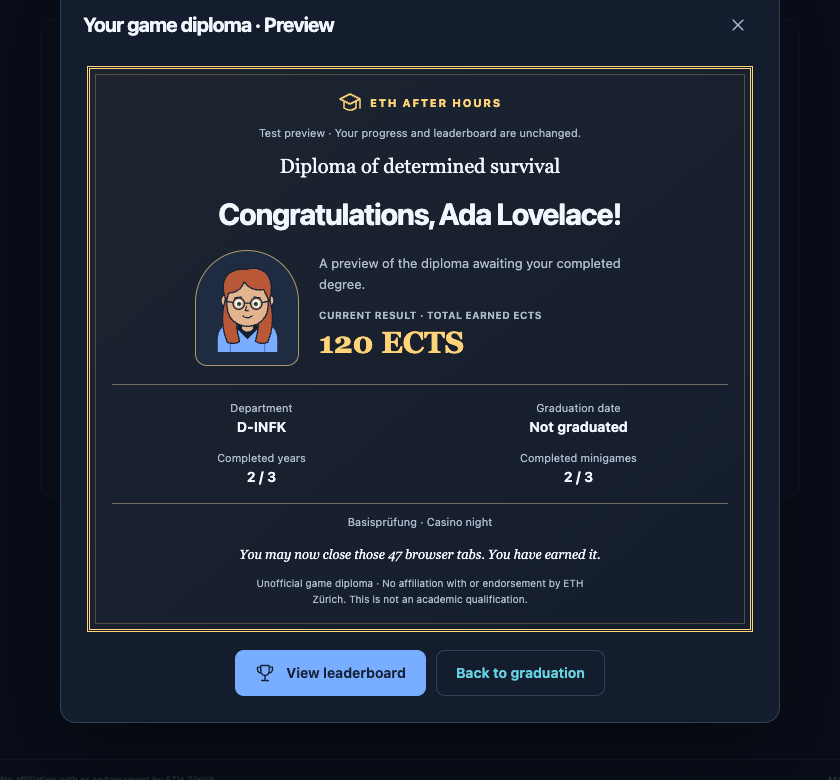
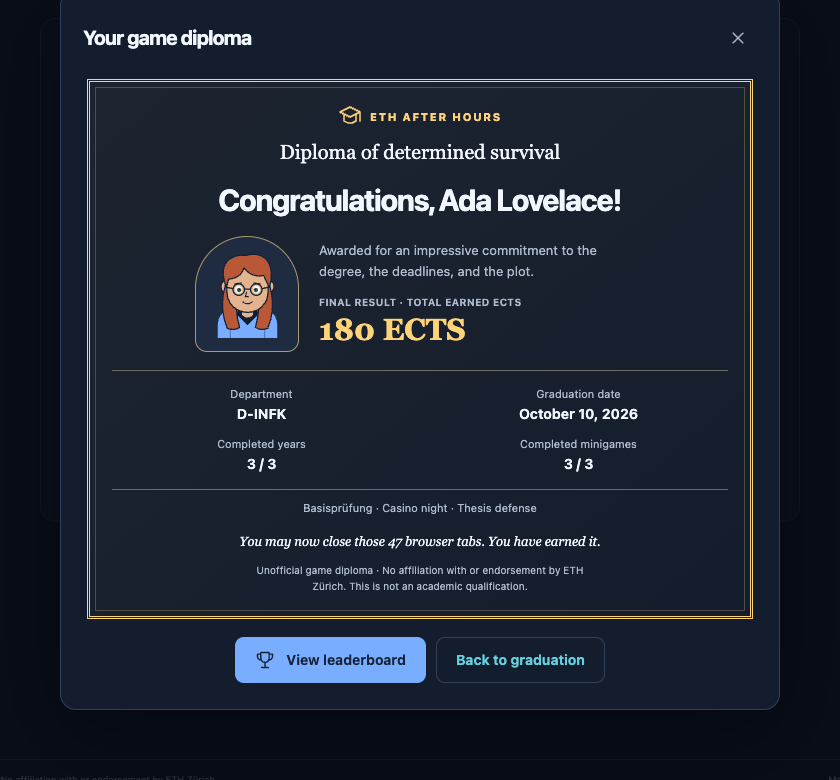
docs: rewrite the README opening as a professional pitch and add Year 3
Replace the emoji feature cards with a pitch structure: at-a-glance
numbers, the idea, the three-year experience and what sets the product
apart. Add the thesis defense (screenshots, verdict, gameplay GIF), the
real 180 ECTS diploma, Level 3 in the architecture and repo map, and the
current test counts. The technical deep dive is unchanged.

diff --git a/README.md b/README.md
@@ -1,10 +1,10 @@
 <div align="center">
 
-# 🎓 ETH Simulator: After Hours
+# ETH Simulator: After Hours
 
-### Three years at ETH Zürich in one sitting. No controller required: your hand is the controller.
+### A complete ETH degree in about ten minutes, controlled with nothing but your hand.
 
-Create a student, survive the **Basisprüfung** by shooting exam questions out of the air with a **webcam finger gun**, bet your stipend on **Galton Blackjack**, and earn your 180 ECTS.
+ETH Simulator turns the three defining moments of an ETH Zürich degree into three minigames: surviving the Basisprüfung, betting your stipend, and defending your thesis. Players walk up, raise a finger gun at the webcam and play. There is nothing to install, no controller to hand over and no account to create.
 
 ![VIScon Hackathon 2026](https://img.shields.io/badge/VIScon-Hackathon%202026-1F407A)
 ![React 19](https://img.shields.io/badge/React-19-61DAFB?logo=react&logoColor=white)
@@ -13,30 +13,48 @@ Create a student, survive the **Basisprüfung** by shooting exam questions out o
 ![FastAPI](https://img.shields.io/badge/FastAPI-Python%203.12-009688?logo=fastapi&logoColor=white)
 ![Redis 8](https://img.shields.io/badge/Redis-8-DC382D?logo=redis&logoColor=white)
 ![PostgreSQL 17](https://img.shields.io/badge/PostgreSQL-17-4169E1?logo=postgresql&logoColor=white)
-![Tests](https://img.shields.io/badge/tests-395%20passing-2EA043)
+![Tests](https://img.shields.io/badge/tests-432%20passing-2EA043)
 
 <img src="docs/readme/shooter-gameplay.gif" width="820" alt="The finger-gun shooter: a tracked hand skeleton aims a crosshair at exam questions and deadlines flying out of a neon exam hall" />
 
-<sub>Real gameplay, recorded from the running app. The cyan skeleton is the hand our server tracks in every camera frame: aim with your index finger, drop your thumb to fire.</sub>
+<sub>Recorded from the running application. The cyan skeleton is the hand our server tracks in every camera frame: the index finger aims, a dropped thumb fires.</sub>
 
 </div>
 
 ---
 
-## The pitch
+## At a glance
 
-Every ETH student remembers the Basisprüfung, the first-year exam block that decides whether you stay. We turned it into a shooting gallery. Exam questions, deadlines and coffee cups fly at you out of an endless exam hall, and you shoot them with **your bare hand**. Point your index finger and you aim. Drop your thumb and you fire. Nothing to install and no controller to hand over.
+| 3 | 0 | ~10 ms | 100 % | 432 |
+|:---:|:---:|:---:|:---:|:---:|
+| years, three original minigames, one diploma | controllers, installs or sign-ups required | server-side hand tracking per camera frame | of 63 labeled trigger pulls detected, with no false shots | automated tests behind every merge |
 
-Around that moment we built a whole (very unofficial) degree:
+---
 
-| | |
-|---|---|
-| 🧑🎓 **Make it yours** | Build a student in the character creator. Take a photo and the game picks your colours: skin tone is measured on your device, hair and eyes by a vision model. |
-| 🔫 **Year 1: Basisprüfung** | The finger-gun shooter, with hand tracking on our own server (MediaPipe), a neon hand skeleton, combos and a warm-up that teaches the gesture in three shots. |
-| 🎰 **Year 2: Casino night** | **Galton Blackjack.** Every card becomes balls that fall through a Galton board. Overshoot the normal curve and you bust; land on it three times and it's blackjack. We tuned it with a simulation until the odds matched real blackjack. |
-| 🏆 **Graduate** | Earn ECTS, open your diploma and climb the scoreboard. No sign-up and no password: every browser gets an anonymous player ID. |
+## The idea
 
-> **The 10-second judge test:** hold up a finger gun. The skeleton snaps onto your hand, the crosshair follows your finger, and the first paper shatters. That's the moment we built everything else around.
+Games at a crowded booth compete for about thirty seconds of attention. Most of that time usually goes to explaining the controls, so we removed the controls entirely. You point at the screen with your hand and the game understands you. The moment the skeleton locks onto your hand and the first exam question shatters is the moment people stop walking past.
+
+A single gimmick holds attention for a minute, though. A story holds it for the full ten. So we built the gesture shooter into the arc every ETH student knows: enrol, survive three years, graduate. Each year is its own game with its own mechanic, and each one awards the ECTS that unlock the next.
+
+## The experience
+
+<table>
+<tr>
+<td width="33%" valign="top"><img src="docs/readme/shooter-hand-tracking.png" alt="Year 1, the Basisprüfung: a tracked hand aims at exam questions and deadlines" /><br/><b>Year 1: Basisprüfung</b><br/>A first-person shooting gallery played with a webcam finger gun. Exam questions, deadlines and coffee cups fly out of an endless exam hall. A three-shot warm-up teaches the gesture without any instructions.</td>
+<td width="33%" valign="top"><img src="docs/readme/blackjack-table.jpg" alt="Year 2, Casino night: Galton Blackjack table" /><br/><b>Year 2: Casino night</b><br/>Galton Blackjack, a blackjack variant we invented around the normal distribution. Every card turns into balls that fall through a Galton board. Overshoot the curve and you bust; land on it three times and it's blackjack. The odds were tuned over two million simulated hands to match the real game.</td>
+<td width="33%" valign="top"><img src="docs/readme/thesis-defense.png" alt="Year 3, Thesis defense: a four-lane rhythm game in front of a professor committee" /><br/><b>Year 3: Thesis defense</b><br/>A four-lane rhythm game against a three-professor committee. Theory, proofs, experiments and critique arrive on the beat. Survive the professor's meltdown, land the final QED chord, and receive an ETH grade from 1 to 6.</td>
+</tr>
+</table>
+
+Graduation closes the loop: a personalised diploma with your avatar, your department and every ECTS you earned, followed by your place on the public scoreboard.
+
+## What sets it apart
+
+- **Hand tracking as the controller.** No browser plugin, no depth camera and no separate calibration step. A standard laptop webcam streams to our own MediaPipe engine, and a gesture recognizer we wrote and validated on recorded play turns the hand into aim and trigger.
+- **Mechanics with a point of view.** Each game is built around something ETH students actually know: the Basisprüfung, the bell curve, the thesis committee. The blackjack variant is original and mathematically balanced, not a reskin.
+- **A complete product, not a demo.** Onboarding, character creation, an animated admission letter, three playable years, a real diploma and a leaderboard all work end to end and ship as a single Docker Compose stack.
+- **Built for a booth.** One-click start with anonymous players, an automatic mouse fallback if a camera fails, skippable animations, and an AI layer that degrades gracefully when it's unavailable.
 
 ---
 
@@ -44,43 +62,41 @@ Around that moment we built a whole (very unofficial) degree:
 
 <table>
 <tr>
-<td width="50%"><img src="docs/readme/landing.png" alt="Landing page: ETH Simulator, big ambitions, very little free time" /><br/><sub><b>Admissions open.</b> One click to start. No account, no password.</sub></td>
-<td width="50%"><img src="docs/readme/character-builder.png" alt="Character builder with a live student ID preview" /><br/><sub><b>Meet your future self.</b> Live student-ID preview, colour presets, and an optional photo assist.</sub></td>
+<td width="50%"><img src="docs/readme/landing.png" alt="Landing page: ETH Simulator, big ambitions, very little free time" /><br/><sub><b>Landing.</b> One click to start, with no account and no password.</sub></td>
+<td width="50%"><img src="docs/readme/character-builder.png" alt="Character builder with a live student ID preview" /><br/><sub><b>Character builder.</b> A live student-ID preview, curated colour presets, and an optional photo assist that suggests the player's colours.</sub></td>
 </tr>
 <tr>
-<td><img src="docs/readme/admission-flow.gif" alt="Animated admission: the student ID is issued, then the acceptance letter types itself out" /><br/><sub><b>You're in.</b> Your student ID is issued, then the acceptance letter types itself out. It's skippable and respects <code>prefers-reduced-motion</code>.</sub></td>
-<td><img src="docs/readme/campus-hub.png" alt="Degree hub with years, ECTS progress and the next minigame" /><br/><sub><b>The degree hub.</b> Three years, 180 ECTS. Each year unlocks once the last one is done.</sub></td>
+<td><img src="docs/readme/admission-flow.gif" alt="Animated admission: the student ID is issued, then the acceptance letter types itself out" /><br/><sub><b>Admission.</b> The student ID is issued, then a personalised acceptance letter types itself out. It's skippable and respects <code>prefers-reduced-motion</code>.</sub></td>
+<td><img src="docs/readme/campus-hub.png" alt="Degree hub with years, ECTS progress and the current minigame" /><br/><sub><b>Degree hub.</b> Three years and 180 ECTS. Each year unlocks once the one before it is complete.</sub></td>
 </tr>
 <tr>
-<td><img src="docs/readme/shooter-warmup.png" alt="Shooter warm-up: a practice paper and a tracked hand" /><br/><sub><b>Warm-up.</b> Three practice papers teach the gesture while the engine calibrates to your resting hand.</sub></td>
-<td><img src="docs/readme/shooter-hand-tracking.png" alt="Shooter round: hand skeleton over deadline and exam question targets" /><br/><sub><b>Basisprüfung.</b> 60 seconds. Exam questions (10), deadlines (25, fast), coffee (+3 s). Missed shots cost points.</sub></td>
+<td><img src="docs/readme/shooter-warmup.png" alt="Shooter warm-up: a practice paper and a tracked hand" /><br/><sub><b>Basisprüfung warm-up.</b> Three practice targets teach the gesture while the engine calibrates to the player's resting hand.</sub></td>
+<td><img src="docs/readme/blackjack-bust.jpg" alt="Galton Blackjack: a red ball above the curve means bust" /><br/><sub><b>Casino night.</b> A ball that stacks above the curve turns red and ends the hand.</sub></td>
 </tr>
 <tr>
-<td><img src="docs/readme/blackjack-table.jpg" alt="Galton Blackjack table with two Galton boards and the chip tray" /><br/><sub><b>Casino night.</b> 1 000 chips, 10 hands. Each seat owns a Galton board instead of a hand.</sub></td>
-<td><img src="docs/readme/blackjack-bust.jpg" alt="Galton Blackjack: a red ball above the curve means bust" /><br/><sub><b>Bust!</b> A ball stacks above the curve and turns red. The dealer has a line for that.</sub></td>
-</tr>
-<tr>
-<td><img src="docs/readme/diploma.png" alt="The game diploma: Diploma of determined survival with avatar, ECTS and completed years" /><br/><sub><b>Your diploma.</b> The "Diploma of determined survival", with your avatar, ECTS, years and minigames.</sub></td>
-<td><img src="docs/readme/scoreboard.png" alt="Student scoreboard dialog" /><br/><sub><b>Scoreboard.</b> The top 100 players, ranked by ECTS. Light and dark themes, a skip link and ARIA labels throughout.</sub></td>
+<td><img src="docs/readme/thesis-verdict.png" alt="Thesis defense verdict: Summa cum laude, ETH grade 6.00, 100 percent accuracy" /><br/><sub><b>Thesis verdict.</b> Accuracy, maximum combo and an ETH grade, from "major revisions required" up to summa cum laude.</sub></td>
+<td><img src="docs/readme/diploma.png" alt="The diploma: Diploma of determined survival with avatar, 180 ECTS and graduation date" /><br/><sub><b>Diploma.</b> Issued at 180 ECTS with the player's avatar, department, graduation date and all three minigames.</sub></td>
 </tr>
 </table>
 
-<div align="center">
-<img src="docs/readme/blackjack-gameplay.gif" width="720" alt="Galton Blackjack gameplay: cards dissolve into balls that fall through the pins onto the board" />
-<br/><sub>Galton Blackjack in motion: each pip of a card is its own sprite and turns into a ball that bounces through 8 rows of pins.</sub>
-</div>
+<table>
+<tr>
+<td width="50%"><img src="docs/readme/blackjack-gameplay.gif" alt="Galton Blackjack gameplay: cards dissolve into balls that fall through the pins" /><br/><sub>Galton Blackjack: each pip of a card is its own sprite and becomes a ball that bounces through eight rows of pins.</sub></td>
+<td width="50%"><img src="docs/readme/thesis-gameplay.gif" alt="Thesis defense gameplay: notes stream down four neon lanes and are hit on the beat" /><br/><sub>Thesis defense: the final phase at a 200-note combo with the 4x multiplier active.</sub></td>
+</tr>
+</table>
 
 ---
 
-## For the judges: where the work is
+## How it maps to the judging criteria
 
-| Criterion | What to look at |
+| Criterion | Where to look |
 |---|---|
-| **Originality** | Shooting with a bare-hand finger gun, no controller and no install. Blackjack rebuilt around the normal distribution, the one curve every ETH student meets in their first year. |
-| **Technical depth** | A real-time computer-vision pipeline over a WebSocket, with our own gesture recognizer that copes with MediaPipe's failure modes. A simulation-balanced game. An AI gateway that cannot spend credits by accident. Details in the [engineering deep dive](#engineering-deep-dive). |
-| **Completeness** | Onboarding → character → admission → Year 1 → Year 2 → diploma → scoreboard all work end to end, with server-side progress for anonymous players and a production Docker stack. Every screenshot in this README comes from the running app. |
-| **Quality** | 395 automated tests (244 backend, 151 frontend), four required CI checks, CD to GHCR, and hardening against malformed camera frames that would otherwise crash the server. |
-| **Design** | One visual language from landing page to casino table, light and dark themes, accessible controls, and a "juicy" shooter: muzzle flash, shattering papers, a backdrop that reacts to every shot. |
+| **Originality** | Controller-free play with a webcam finger gun. An original blackjack variant built on the normal distribution. A thesis defense told as a rhythm game. |
+| **Technical depth** | A real-time computer-vision pipeline over a WebSocket, with a custom gesture recognizer that handles MediaPipe's failure modes. A simulation-balanced card game. An AI gateway that cannot spend credits by accident. Details in the [engineering deep dive](#engineering-deep-dive). |
+| **Completeness** | Onboarding, character, admission, all three years, diploma and scoreboard work end to end, with server-side progress for anonymous players and a production Docker stack. Every image in this document was captured from the running application. |
+| **Quality** | 432 automated tests (244 backend, 188 frontend), four required CI checks, continuous delivery to GHCR, and hardening against malformed camera input. |
+| **Design** | One visual language from the landing page to the diploma, light and dark themes, accessible controls, and game feel: muzzle flash, shattering targets, a backdrop that reacts to every shot, and a committee that reacts to every answer. |
 
 ---
 
@@ -94,10 +110,12 @@ flowchart LR
         Host["DestinationGame<br/>MountMinigame contract"]
         L1["Level 1: Shooter<br/>Phaser 4 scene"]
         L2["Level 2: Galton Blackjack<br/>Phaser 4 scene"]
+        L3["Level 3: Thesis defense<br/>Phaser 4 rhythm scene"]
         Cam["getUserMedia 640×480<br/>FramePacer → JPEG"]
         Shell --> Host
         Host --> L1
         Host --> L2
+        Host --> L3
         Cam --> L1
     end
 
@@ -123,7 +141,7 @@ flowchart LR
 **Design rules that held across the event:**
 
 1. **React owns everything around a round; Phaser owns the round.** They meet at a single interface, `MountMinigame({ parent, character, dialogue, onFinish }) → { destroy() }` in [`frontend/src/games/shared/minigame.ts`](frontend/src/games/shared/minigame.ts). Game code never fetches, never navigates and never imports React.
-2. **Games are plug-in "levels".** Each minigame lives in `frontend/levelN/` and `backend/levelN/` with its own tests. It touches the shell only through hooks: the game registry, router registration, test paths, `tsconfig` and one `COPY` line in the Dockerfile. Two teams built two games in parallel without merge conflicts in the shell.
+2. **Games are plug-in "levels".** Each minigame lives in `frontend/levelN/` and `backend/levelN/` with its own tests. It touches the shell only through hooks: the game registry, router registration, test paths, `tsconfig` and one `COPY` line in the Dockerfile. Three games were built in parallel by different people without merge conflicts in the shell.
 3. **Secrets never reach the browser.** Only `backend/app/ai.py` imports `openai`. The keys are a server-side failover chain.
 4. **Camera frames are never stored.** They are decoded in memory and analysed, and only landmarks and the aim go back. Recording works only on a development server, and only when a developer presses **R**.
 
@@ -260,7 +278,7 @@ At a booth, a login form costs players. Each browser gets a random **player UUID
 | Layer | Choice | Why |
 |---|---|---|
 | Outer shell | **React 19 + TypeScript**, Vite, Redux Toolkit | Menus, onboarding and the hub are classic UI. The degree state lives in one store, mirrored to the server by an anonymous player ID |
-| Game engine | **Phaser 4** (WebGL, Canvas fallback) | One 2D engine for both games. The shooter fakes depth with projection, scale, draw order and haze, so it needs no 3D engine and no extra GPU load next to the camera |
+| Game engine | **Phaser 4** (WebGL, Canvas fallback) | One 2D engine for all three games. The shooter fakes depth with projection, scale, draw order and haze, so it needs no 3D engine and no extra GPU load next to the camera |
 | Computer vision | **MediaPipe HandLandmarker** (Python), Pillow, NumPy | 21 landmarks per hand at about 10 ms per frame on a CPU, with our own geometry on top |
 | Backend | **FastAPI** + Pydantic v2 | A typed contract, mirrored in TypeScript (`schemas.py` ↔ `CommonInt.ts`), with camelCase on the wire |
 | Player progress | **PostgreSQL 17**, SQLAlchemy 2 | Relational data (players, profiles, completions) with row-level locks |
@@ -289,7 +307,7 @@ flowchart LR
 | | |
 |---|---|
 | **Backend tests** | 244 passing (players, runs, endings, leaderboard, story, AI gateway, moderation, CV contract, gesture replays, real-model checks) |
-| **Frontend tests** | 151 passing across 23 files (blackjack rules, depth projection, hit tests, scoring, spawn, `FramePacer`, `SwitchableInput` lifecycle, character builder, admission flow, diploma, progression) |
+| **Frontend tests** | 188 passing across 27 files (blackjack rules, thesis chart, judging and verdicts, depth projection, hit tests, scoring, spawn, `FramePacer`, `SwitchableInput` lifecycle, character builder, admission flow, diploma, progression) |
 | **Protected `main`** | Every change goes through a PR with four required checks, squash-merged ([docs/BRANCH_RULES.md](docs/BRANCH_RULES.md)) |
 | **Testing the camera without a camera** | In a headless browser, Playwright swaps `getUserMedia` for a canvas stream of a hand photo, so the real pipeline (WebSocket, MediaPipe, gesture engine, scene) runs end to end. The GIF at the top was recorded this way |
 
@@ -338,7 +356,8 @@ make smoke                            # read-only end-to-end probe of a running 
 frontend/
 ├── src/                 React shell: App.tsx, store.ts (Redux), components/, minigames/, games/registry.ts
 ├── level1/              Level 1, the shooter: ShooterScene, depth/hitTest/score/spawn (+ tests), input/ (camera, WebSocket, FramePacer)
-└── level2/              Level 2, Galton Blackjack: rules.ts (+ tests), board.ts, BlackjackScene, sprite sheets
+├── level2/              Level 2, Galton Blackjack: rules.ts (+ tests), board.ts, BlackjackScene, sprite sheets
+└── level3/              Level 3, Thesis defense: chart.ts, engine.ts, verdict.ts (+ tests), ThesisScene, committee and highway
 backend/
 ├── app/                 FastAPI: routers/, services/, schemas.py, ai.py (OpenAI gateway), database.py (Postgres), db.py (Redis)
 ├── level1/              CV engine: cv.py (MediaPipe), gesture.py, router.py (WebSocket), recorded play fixtures + tests
@@ -349,12 +368,14 @@ docs/                    Game design, architecture, CV deep dive, stack, decisio
 
 ---
 
-## What's next
+## Roadmap
 
-- **Year 3.** The third minigame slot is wired into the hub and waiting for its game. Today it holds a preview component that awards no ECTS.
-- **The story in the new shell.** The advisor dialogue, AI epilogue and rector narration are built and tested in the backend. The next step is adding the AI epilogue and narration to the new diploma screen.
-- **Archetype perks.** The Gamer and ASVZ-athlete perks already exist in the shooter's config and the engine's `settings` message. Next we expose archetypes in the character builder.
-- **Per-player box calibration** for the hand skeleton (the protocol message already exists), plus sound and hit-stop for the shooter.
+The core loop is complete. The next steps deepen it rather than widen it:
+
+- **A narrated graduation.** The advisor dialogue, AI-written epilogue and rector narration are already built and tested in the backend. Bringing them to the diploma screen gives every player a personal, spoken send-off.
+- **Archetypes that change play.** The Gamer and ASVZ-athlete perks already exist in the shooter's configuration and the engine protocol. Exposing archetypes in the character builder turns them into a real choice.
+- **Per-player calibration** of the hand-skeleton overlay (the protocol message already exists), plus sound design and hit-stop for the shooter.
+- **Multiplayer at the booth.** The CV engine already serves four concurrent players, so head-to-head shooter rounds are a natural next mode.
 
 ---
 
@@ -370,6 +391,6 @@ docs/                    Game design, architecture, CV deep dive, stack, decisio
 
 ## Team
 
-Built at VIScon Hackathon 2026 by [@ITheClixs](https://github.com/ITheClixs), [@Mer123haba456](https://github.com/Mer123haba456), [@toezcan](https://github.com/toezcan), [@ibrahim1metin](https://github.com/ibrahim1metin) and [@anomyq](https://github.com/anomyq).
+ETH Simulator: After Hours was designed and built during VIScon Hackathon 2026 by [@ITheClixs](https://github.com/ITheClixs), [@Mer123haba456](https://github.com/Mer123haba456), [@ibrahim1metin](https://github.com/ibrahim1metin), [@toezcan](https://github.com/toezcan) and [@anomyq](https://github.com/anomyq).
 
-<sub>An unofficial student parody, made with love. No affiliation with or endorsement by ETH Zürich, and no official logos. In-game AI features use the OpenAI API. Screenshots show the app running locally. The webcam in the shooter recordings was simulated with the hand photos in `backend/level1/tests/fixtures/`.</sub>
+<sub>ETH Simulator is an unofficial student parody. It is not affiliated with or endorsed by ETH Zürich and uses no official logos. AI features use the OpenAI API. All screenshots and recordings were captured from the application running locally. For the shooter recordings, the webcam was simulated with the hand photos in `backend/level1/tests/fixtures/`, and the thesis defense was played by a scripted input sequence.</sub>
